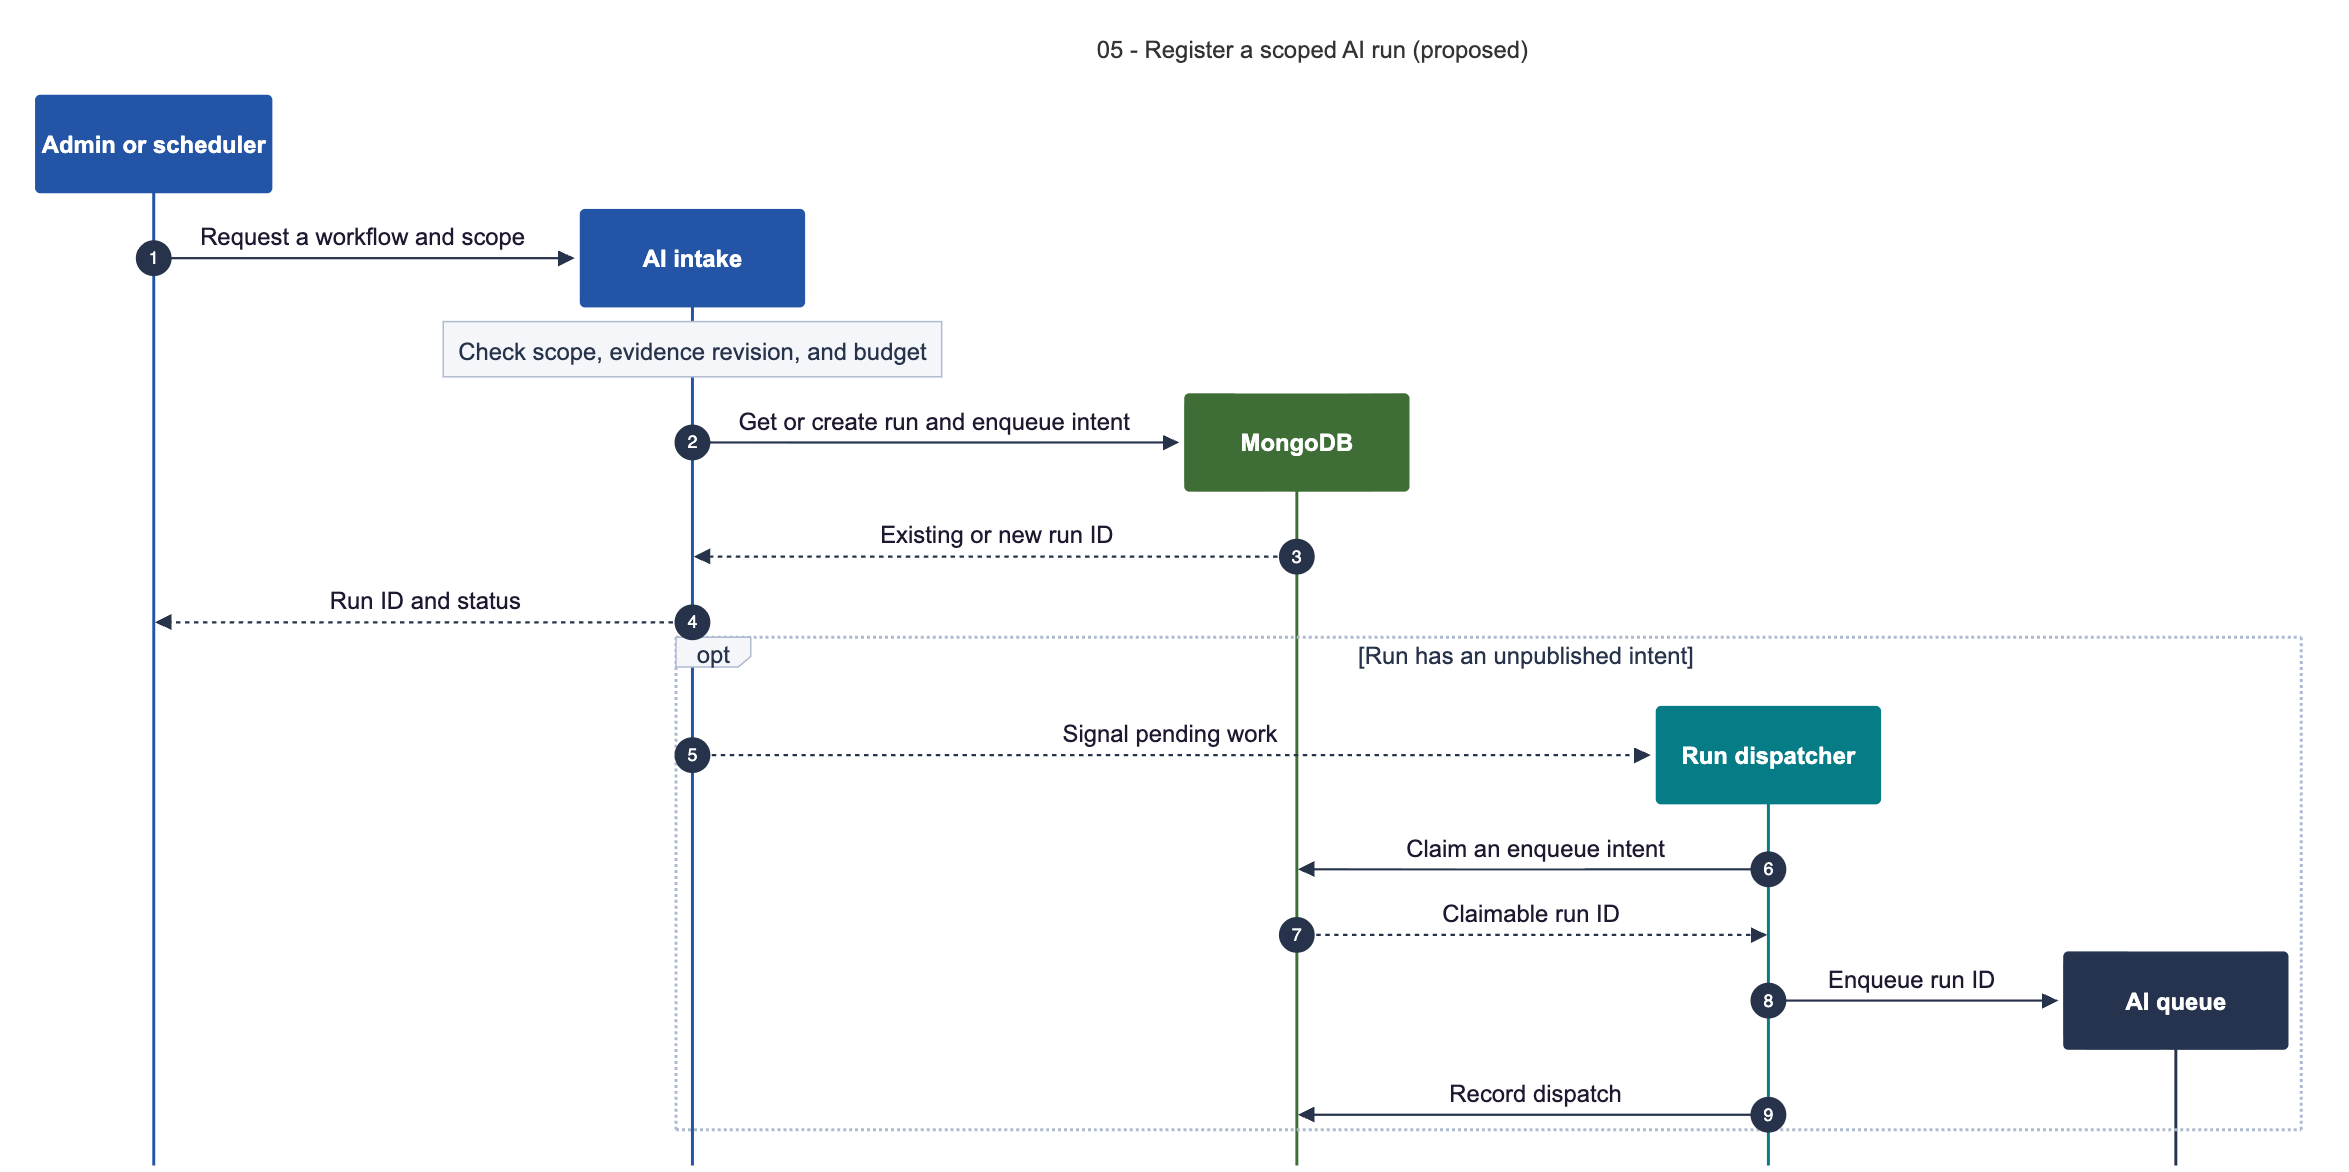
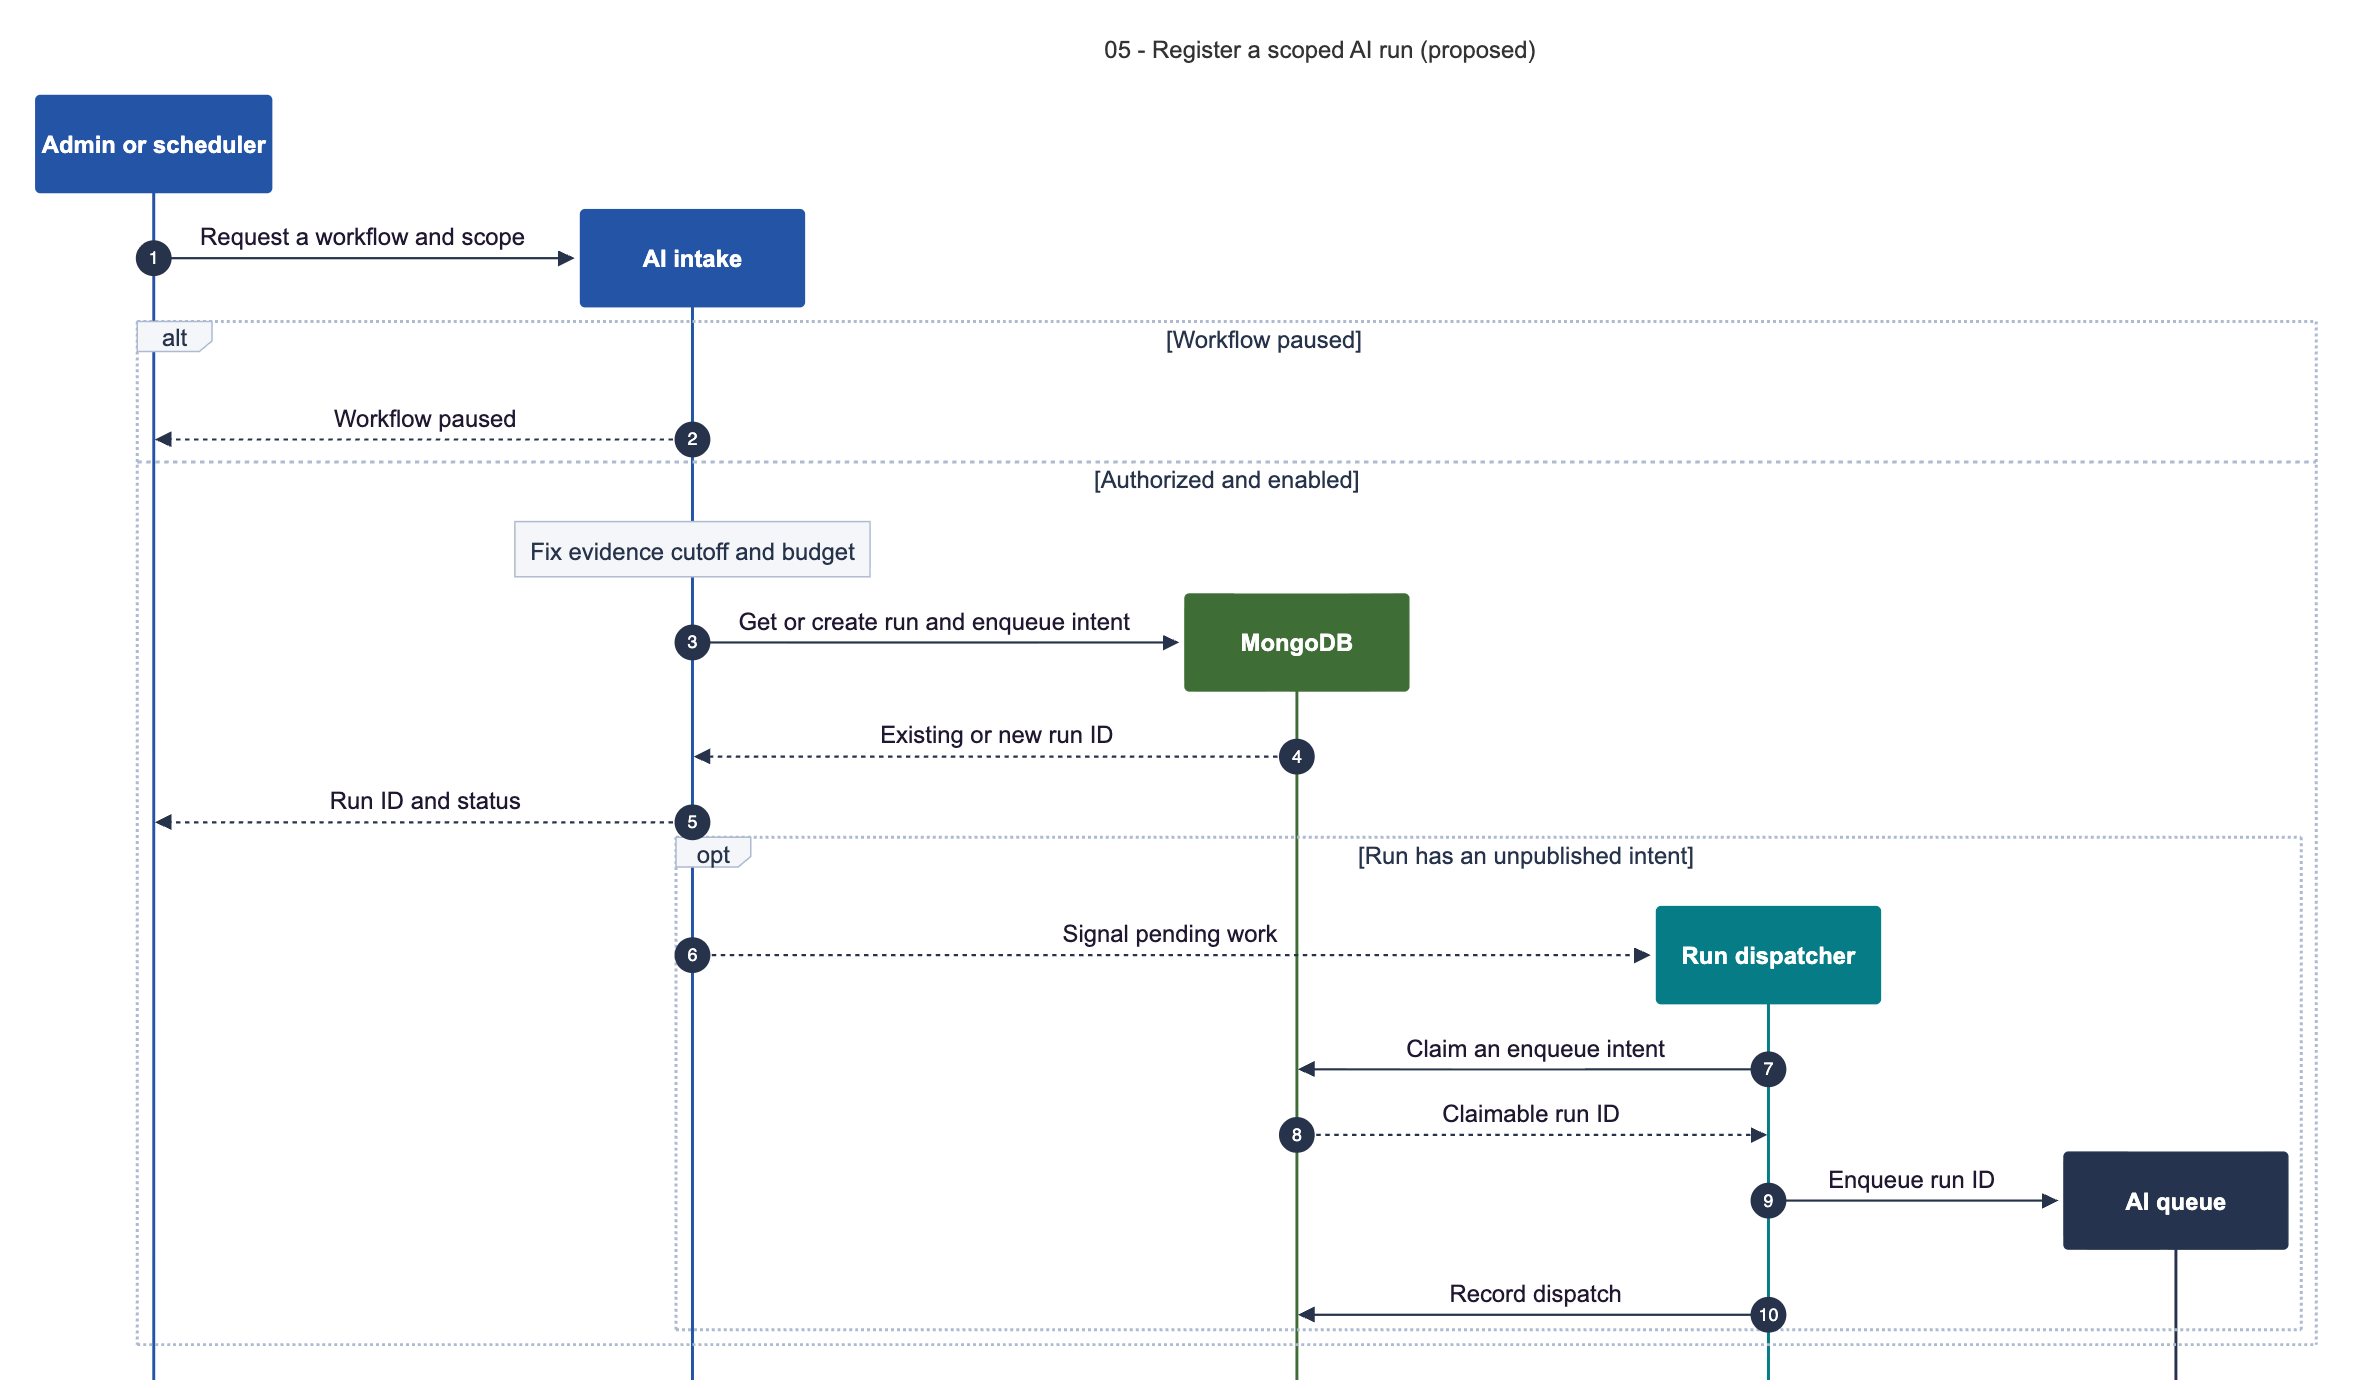
docs(ai): trace workflow pauses and late kiosk evidence through review

diff --git a/README.md b/README.md
@@ -33,6 +33,10 @@ Elevator kiosks can lose signal between floors. A running Android player keeps p
 
 ## Proposed AI architecture
 
+![Agentic system design proposal](docs/architecture/ai/system-design.svg)
+
+[Editable system design in Excalidraw](docs/architecture/ai/system-design.excalidraw)
+
 A proposal for a dedicated NestJS AI module with a workflow orchestrator, bounded specialist agents, provider adapters, and durable runs. It uses derived audience metrics and approved context. Private camera captures stay with the Vision pipeline. The proposal covers campaign digests, measurement triage, and experiment drafts alongside the current per-display insight.
 
 ![Production architecture and proposed AI workflow](docs/architecture/architecture.svg)
@@ -41,9 +45,9 @@ A proposal for a dedicated NestJS AI module with a workflow orchestrator, bounde
 
 | Step | Starts with | Flow | Diagram |
 | --- | --- | --- | --- |
-| **05** | Admin or scheduler | **Register a scoped AI run**<br>Authorize the scope, reserve a run in MongoDB, and dispatch its ID.<br>[Guide](docs/architecture/steps/05-ai-run-intake/README.md) · [Mermaid source](docs/architecture/steps/05-ai-run-intake/SEQUENCE.txt) | <a href="docs/architecture/steps/05-ai-run-intake/diagram.png"><img src="docs/architecture/steps/05-ai-run-intake/diagram.png" alt="Register a scoped AI run proposed sequence diagram" width="480" /></a> |
-| **06** | AI queue | **Delegate and validate the result**<br>Build an evidence snapshot, select a specialist where useful, and validate the result.<br>[Guide](docs/architecture/steps/06-ai-orchestration/README.md) · [Mermaid source](docs/architecture/steps/06-ai-orchestration/SEQUENCE.txt) | <a href="docs/architecture/steps/06-ai-orchestration/diagram.png"><img src="docs/architecture/steps/06-ai-orchestration/diagram.png" alt="Delegate and validate the result proposed sequence diagram" width="480" /></a> |
-| **07** | Admin | **Review evidence and approve next actions**<br>Show run status and evidence, then record a human decision on a proposed action.<br>[Guide](docs/architecture/steps/07-ai-review/README.md) · [Mermaid source](docs/architecture/steps/07-ai-review/SEQUENCE.txt) | <a href="docs/architecture/steps/07-ai-review/diagram.png"><img src="docs/architecture/steps/07-ai-review/diagram.png" alt="Review evidence and approve next actions proposed sequence diagram" width="480" /></a> |
+| **05** | Admin or scheduler | **Register a scoped AI run**<br>Check scope and workflow pause status before reserving a run for an evidence cutoff.<br>[Guide](docs/architecture/steps/05-ai-run-intake/README.md) · [Mermaid source](docs/architecture/steps/05-ai-run-intake/SEQUENCE.txt) | <a href="docs/architecture/steps/05-ai-run-intake/diagram.png"><img src="docs/architecture/steps/05-ai-run-intake/diagram.png" alt="Register a scoped AI run proposed sequence diagram" width="480" /></a> |
+| **06** | AI queue | **Delegate and validate the result**<br>Check measurement coverage and the workflow pause before invoking a specialist.<br>[Guide](docs/architecture/steps/06-ai-orchestration/README.md) · [Mermaid source](docs/architecture/steps/06-ai-orchestration/SEQUENCE.txt) | <a href="docs/architecture/steps/06-ai-orchestration/diagram.png"><img src="docs/architecture/steps/06-ai-orchestration/diagram.png" alt="Delegate and validate the result proposed sequence diagram" width="480" /></a> |
+| **07** | Admin | **Review evidence and approve next actions**<br>Show the evidence cutoff, offer a revision for late events, and record review decisions.<br>[Guide](docs/architecture/steps/07-ai-review/README.md) · [Mermaid source](docs/architecture/steps/07-ai-review/SEQUENCE.txt) | <a href="docs/architecture/steps/07-ai-review/diagram.png"><img src="docs/architecture/steps/07-ai-review/diagram.png" alt="Review evidence and approve next actions proposed sequence diagram" width="480" /></a> |
 
 ## Local development
 

diff --git a/docs/architecture/steps/README.md b/docs/architecture/steps/README.md
@@ -22,10 +22,14 @@ Elevator kiosks can lose signal between floors. A running Android player keeps p
 
 ## Proposed AI workflow
 
+![Agentic system design proposal](../ai/system-design.svg)
+
+[Editable system design in Excalidraw](../ai/system-design.excalidraw)
+
 These steps describe the possible next architecture after detection. Steps 01–04 document the current product. See the [AI architecture proposal](../ai/README.md) for decisions, alternatives, and rollout criteria.
 
 | Step | Starts with | Flow | Diagram |
 | --- | --- | --- | --- |
-| **05** | Admin or scheduler | **Register a scoped AI run**<br>Authorize the scope, reserve a run in MongoDB, and dispatch its ID.<br>[Guide](05-ai-run-intake/README.md) · [Mermaid source](05-ai-run-intake/SEQUENCE.txt) | <a href="05-ai-run-intake/diagram.png"><img src="05-ai-run-intake/diagram.png" alt="Register a scoped AI run proposed sequence diagram" width="480" /></a> |
-| **06** | AI queue | **Delegate and validate the result**<br>Build an evidence snapshot, select a specialist where useful, and validate the result.<br>[Guide](06-ai-orchestration/README.md) · [Mermaid source](06-ai-orchestration/SEQUENCE.txt) | <a href="06-ai-orchestration/diagram.png"><img src="06-ai-orchestration/diagram.png" alt="Delegate and validate the result proposed sequence diagram" width="480" /></a> |
-| **07** | Admin | **Review evidence and approve next actions**<br>Show run status and evidence, then record a human decision on a proposed action.<br>[Guide](07-ai-review/README.md) · [Mermaid source](07-ai-review/SEQUENCE.txt) | <a href="07-ai-review/diagram.png"><img src="07-ai-review/diagram.png" alt="Review evidence and approve next actions proposed sequence diagram" width="480" /></a> |
+| **05** | Admin or scheduler | **Register a scoped AI run**<br>Check scope and workflow pause status before reserving a run for an evidence cutoff.<br>[Guide](05-ai-run-intake/README.md) · [Mermaid source](05-ai-run-intake/SEQUENCE.txt) | <a href="05-ai-run-intake/diagram.png"><img src="05-ai-run-intake/diagram.png" alt="Register a scoped AI run proposed sequence diagram" width="480" /></a> |
+| **06** | AI queue | **Delegate and validate the result**<br>Check measurement coverage and the workflow pause before invoking a specialist.<br>[Guide](06-ai-orchestration/README.md) · [Mermaid source](06-ai-orchestration/SEQUENCE.txt) | <a href="06-ai-orchestration/diagram.png"><img src="06-ai-orchestration/diagram.png" alt="Delegate and validate the result proposed sequence diagram" width="480" /></a> |
+| **07** | Admin | **Review evidence and approve next actions**<br>Show the evidence cutoff, offer a revision for late events, and record review decisions.<br>[Guide](07-ai-review/README.md) · [Mermaid source](07-ai-review/SEQUENCE.txt) | <a href="07-ai-review/diagram.png"><img src="07-ai-review/diagram.png" alt="Review evidence and approve next actions proposed sequence diagram" width="480" /></a> |

diff --git a/docs/architecture/steps/07-ai-review/README.md b/docs/architecture/steps/07-ai-review/README.md
@@ -4,7 +4,9 @@
 
 [All steps](../README.md#proposed-ai-workflow) · [AI architecture proposal](../../ai/README.md) · [Mermaid source](SEQUENCE.txt) · [Full-size diagram](diagram.png)
 
-Show run status and evidence, then record a human decision on a proposed action.
+Show the evidence cutoff, offer a revision for late events, and record review decisions.
+
+When an elevator reconnects, use playback time to place newly ingested records in the reporting period. Mark an earlier digest as having newer evidence and offer a manual refresh. Submit the new evidence revision through step 05 and keep the previous artifact and its review history. Recheck campaign proposals against the revision being approved.
 
 ![Review evidence and approve next actions sequence diagram](diagram.png)
 

diff --git a/docs/architecture/steps/06-ai-orchestration/README.md b/docs/architecture/steps/06-ai-orchestration/README.md
@@ -4,7 +4,9 @@
 
 [All steps](../README.md#proposed-ai-workflow) · [AI architecture proposal](../../ai/README.md) · [Mermaid source](SEQUENCE.txt) · [Full-size diagram](diagram.png)
 
-Build an evidence snapshot, select a specialist where useful, and validate the result.
+Check measurement coverage and the workflow pause before invoking a specialist.
+
+A kiosk completion can carry a zero when camera inference was skipped. Until the event records an explicit analysis outcome, classify an ambiguous zero as unknown. Recheck the workflow pause before a provider call and record a paused run so operators can distinguish it from insufficient evidence.
 
 ![Delegate and validate the result sequence diagram](diagram.png)
 

diff --git a/docs/architecture/steps/05-ai-run-intake/README.md b/docs/architecture/steps/05-ai-run-intake/README.md
@@ -4,7 +4,9 @@
 
 [All steps](../README.md#proposed-ai-workflow) · [AI architecture proposal](../../ai/README.md) · [Mermaid source](SEQUENCE.txt) · [Full-size diagram](diagram.png)
 
-Authorize the scope, reserve a run in MongoDB, and dispatch its ID.
+Check scope and workflow pause status before reserving a run for an evidence cutoff.
+
+A paused workflow returns its status before reserving or dispatching new work. On admission, record the cutoff for ingested evidence separately from the playback period. This lets an operator see which late events a digest could have included.
 
 ![Register a scoped AI run sequence diagram](diagram.png)
 
